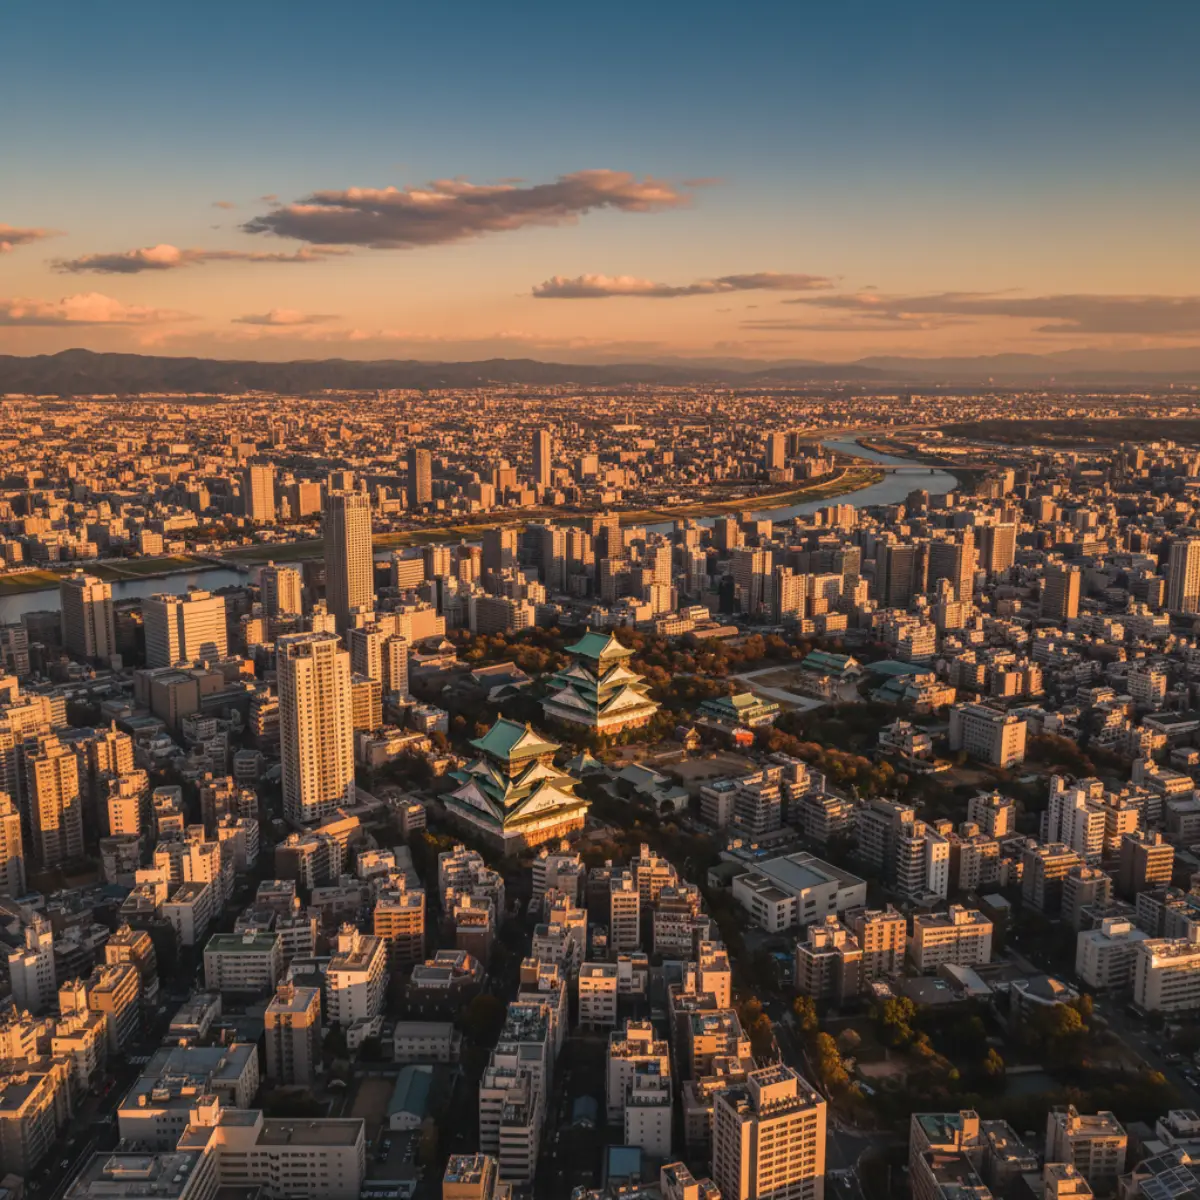
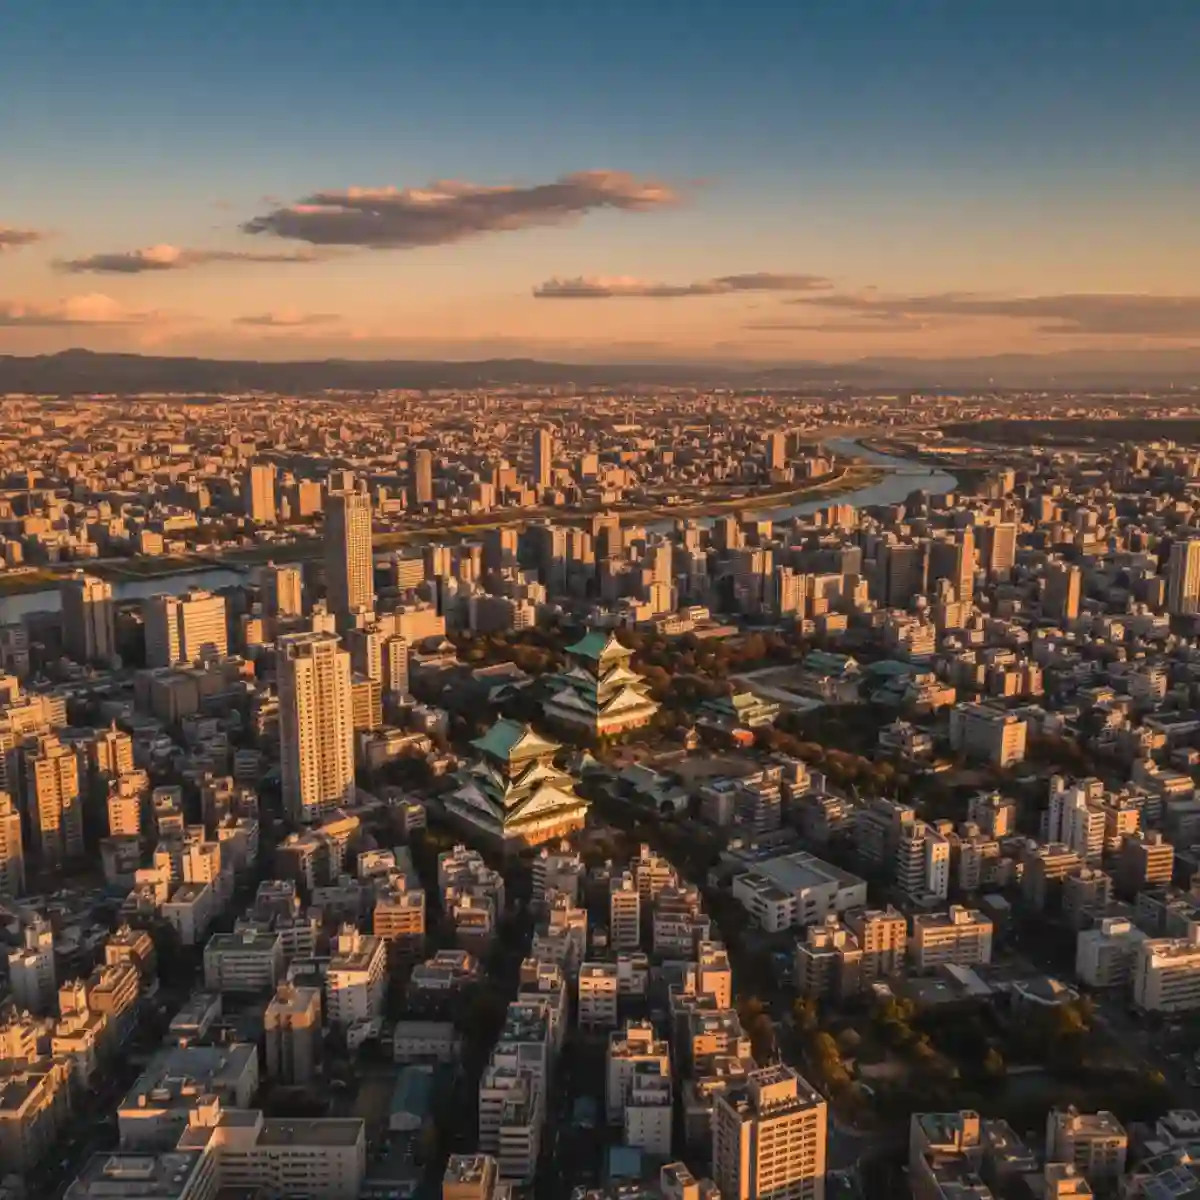
SEO/AEO/パフォーマンス改善: addressLocality補完・画像圧縮・loading属性・twitter統一
- LocalBusiness addressLocality「名古屋市中区」に変更（両LP）
- nagoya-aerial.webp 151KB→49KB、og-image.webp 73KB→25KB
- loading属性なし画像にlazy追加（ロゴ4箇所）
- エレキギターLP twitter:description/titleをmeta descriptionと統一

diff --git a/electric-guitar/index.html b/electric-guitar/index.html
@@ -23,6 +23,8 @@
 <meta property="og:image:height" content="630">
 <meta property="og:image:alt" content="徳丸商会のエレキギター買取。Gibson・Fender・PRS等を高価買取。">
 <meta name="twitter:card" content="summary_large_image">
+<meta name="twitter:title" content="エレキギター買取 名古屋｜高価買取・即日現金の徳丸商会">
+<meta name="twitter:description" content="エレキギター買取なら名古屋の徳丸商会。Gibson・Fender・PRS・Ibanez・YAMAHAを楽器専門スタッフが出張査定。ヴィンテージギターの高価買取にも自信あり。出張費・査定料0円、その場で現金お支払い。年中無休。052-990-3968">
 <meta name="twitter:image" content="https://fuki618.github.io/tokumaru-instrument/images/og-image.webp">
 <meta name="twitter:image:alt" content="徳丸商会のエレキギター買取">
 <link rel="preload" as="image" href="images/hero.webp" type="image/webp">
@@ -38,7 +40,7 @@
 {"@context":"https://schema.org","@type":"FAQPage","mainEntity":[{"@type":"Question","name":"エレキギターの買取相場はいくらですか？","acceptedAnswer":{"@type":"Answer","text":"エレキギターの買取相場はブランド・モデル・状態により大きく異なります。Gibson Les Paul Standardは15万〜20万円、Fender American Professional IIは9.5万〜16.5万円、PRS Custom 24は13万〜25万円が目安です。ヴィンテージ品は当時の定価を大きく上回ることもあります。"}},{"@type":"Question","name":"傷や塗装の剥がれがあるエレキギターでも買取できますか？","acceptedAnswer":{"@type":"Answer","text":"はい、買取可能です。キズ・打痕・塗装剥がれがあっても、ヴィンテージギターでは「レリック」として評価される場合もあります。ネックの状態や電装系の動作が重要な査定ポイントです。"}},{"@type":"Question","name":"改造したエレキギターも買取できますか？","acceptedAnswer":{"@type":"Answer","text":"はい、改造品も買取可能です。ただしフルオリジナルの状態が最も高評価です。ピックアップ交換やペグ交換などがある場合、オリジナルパーツが残っていれば査定額がアップします。"}},{"@type":"Question","name":"ギターケースがなくても買取できますか？","acceptedAnswer":{"@type":"Answer","text":"もちろん買取可能です。ただし純正ハードケースが揃っていると査定額が5〜15%アップする傾向にあります。特にカスタムショップ製の認定証やケースは大きな加点要素です。"}},{"@type":"Question","name":"遺品整理でギターを処分したいのですが？","acceptedAnswer":{"@type":"Answer","text":"はい、遺品整理でのエレキギター買取にも対応しています。ご遺族の方が楽器に詳しくなくても、専門スタッフがメーカー・年式・価値を丁寧にご説明します。"}},{"@type":"Question","name":"出張買取の対応エリアはどこですか？","acceptedAnswer":{"@type":"Answer","text":"名古屋市全域はもちろん、春日井市・一宮市・豊田市・岡崎市など愛知県全域に出張対応しています。岐阜県・三重県の一部も対応可能。出張費はすべて無料です。"}},{"@type":"Question","name":"エレキギターの査定にはどれくらい時間がかかりますか？","acceptedAnswer":{"@type":"Answer","text":"1本あたり約10〜15分程度です。メーカー・型番・年式の確認、ネック状態、フレット残り、電装系の動作チェックを丁寧に行います。"}},{"@type":"Question","name":"アンプやエフェクターも一緒に買取できますか？","acceptedAnswer":{"@type":"Answer","text":"はい、ギターアンプやエフェクター、シールド、ストラップなどもまとめて査定・買取可能です。"}},{"@type":"Question","name":"ヴィンテージギターの価値はどう判断しますか？","acceptedAnswer":{"@type":"Answer","text":"製造年代、シリアルナンバー、木材の状態、パーツのオリジナル度、塗装の状態を総合的に査定します。"}},{"@type":"Question","name":"買取金額に納得できなかった場合はどうなりますか？","acceptedAnswer":{"@type":"Answer","text":"キャンセル料は一切かかりません。査定額にご納得いただけない場合はお気軽にお断りいただけます。"}}]}
 </script>
 <script type="application/ld+json">
-{"@context":"https://schema.org","@type":"LocalBusiness","name":"徳丸商会","alternateName":"徳丸商会 エレキギター買取","description":"名古屋市・愛知県のエレキギター出張買取専門店。Gibson・Fender・PRS・Ibanez・YAMAHAをその場で現金買取。","telephone":"052-990-3968","url":"https://fuki618.github.io/tokumaru-instrument/electric-guitar/","address":{"@type":"PostalAddress","addressLocality":"名古屋市","addressRegion":"愛知県","addressCountry":"JP"},"geo":{"@type":"GeoCoordinates","latitude":35.1815,"longitude":136.9066},"areaServed":[{"@type":"City","name":"名古屋市"},{"@type":"City","name":"春日井市"},{"@type":"City","name":"一宮市"},{"@type":"City","name":"豊田市"},{"@type":"City","name":"岡崎市"},{"@type":"City","name":"豊橋市"},{"@type":"City","name":"小牧市"},{"@type":"City","name":"瀬戸市"},{"@type":"City","name":"半田市"},{"@type":"City","name":"刈谷市"},{"@type":"State","name":"愛知県"}],"priceRange":"無料査定・即日現金払い","openingHoursSpecification":{"@type":"OpeningHoursSpecification","dayOfWeek":["Monday","Tuesday","Wednesday","Thursday","Friday","Saturday","Sunday"],"opens":"09:00","closes":"21:00"},"contactPoint":{"@type":"ContactPoint","telephone":"052-990-3968","contactType":"customer service","availableLanguage":"Japanese"},"aggregateRating":{"@type":"AggregateRating","ratingValue":"4.9","bestRating":"5","ratingCount":"387"},"hasOfferCatalog":{"@type":"OfferCatalog","name":"エレキギター買取サービス","itemListElement":[{"@type":"Offer","itemOffered":{"@type":"Service","name":"Gibson エレキギター買取"}},{"@type":"Offer","itemOffered":{"@type":"Service","name":"Fender エレキギター買取"}},{"@type":"Offer","itemOffered":{"@type":"Service","name":"PRS エレキギター買取"}},{"@type":"Offer","itemOffered":{"@type":"Service","name":"Ibanez エレキギター買取"}},{"@type":"Offer","itemOffered":{"@type":"Service","name":"ESP エレキギター買取"}},{"@type":"Offer","itemOffered":{"@type":"Service","name":"YAMAHA エレキギター買取"}},{"@type":"Offer","itemOffered":{"@type":"Service","name":"ヴィンテージギター買取"}},{"@type":"Offer","itemOffered":{"@type":"Service","name":"改造ギター買取"}}]},"sameAs":["https://lin.ee/j4wK9IM"]}
+{"@context":"https://schema.org","@type":"LocalBusiness","name":"徳丸商会","alternateName":"徳丸商会 エレキギター買取","description":"名古屋市・愛知県のエレキギター出張買取専門店。Gibson・Fender・PRS・Ibanez・YAMAHAをその場で現金買取。","telephone":"052-990-3968","url":"https://fuki618.github.io/tokumaru-instrument/electric-guitar/","address":{"@type":"PostalAddress","addressLocality":"名古屋市中区","addressRegion":"愛知県","addressCountry":"JP"},"geo":{"@type":"GeoCoordinates","latitude":35.1815,"longitude":136.9066},"areaServed":[{"@type":"City","name":"名古屋市"},{"@type":"City","name":"春日井市"},{"@type":"City","name":"一宮市"},{"@type":"City","name":"豊田市"},{"@type":"City","name":"岡崎市"},{"@type":"City","name":"豊橋市"},{"@type":"City","name":"小牧市"},{"@type":"City","name":"瀬戸市"},{"@type":"City","name":"半田市"},{"@type":"City","name":"刈谷市"},{"@type":"State","name":"愛知県"}],"priceRange":"無料査定・即日現金払い","openingHoursSpecification":{"@type":"OpeningHoursSpecification","dayOfWeek":["Monday","Tuesday","Wednesday","Thursday","Friday","Saturday","Sunday"],"opens":"09:00","closes":"21:00"},"contactPoint":{"@type":"ContactPoint","telephone":"052-990-3968","contactType":"customer service","availableLanguage":"Japanese"},"aggregateRating":{"@type":"AggregateRating","ratingValue":"4.9","bestRating":"5","ratingCount":"387"},"hasOfferCatalog":{"@type":"OfferCatalog","name":"エレキギター買取サービス","itemListElement":[{"@type":"Offer","itemOffered":{"@type":"Service","name":"Gibson エレキギター買取"}},{"@type":"Offer","itemOffered":{"@type":"Service","name":"Fender エレキギター買取"}},{"@type":"Offer","itemOffered":{"@type":"Service","name":"PRS エレキギター買取"}},{"@type":"Offer","itemOffered":{"@type":"Service","name":"Ibanez エレキギター買取"}},{"@type":"Offer","itemOffered":{"@type":"Service","name":"ESP エレキギター買取"}},{"@type":"Offer","itemOffered":{"@type":"Service","name":"YAMAHA エレキギター買取"}},{"@type":"Offer","itemOffered":{"@type":"Service","name":"ヴィンテージギター買取"}},{"@type":"Offer","itemOffered":{"@type":"Service","name":"改造ギター買取"}}]},"sameAs":["https://lin.ee/j4wK9IM"]}
 </script>
 <script type="application/ld+json">
 {"@context":"https://schema.org","@type":"Organization","name":"徳丸商会","url":"https://fuki618.github.io/tokumaru-instrument/","logo":"https://fuki618.github.io/tokumaru-instrument/logo.svg","contactPoint":{"@type":"ContactPoint","telephone":"052-990-3968","contactType":"customer service"}}
@@ -279,7 +281,7 @@ ul,ol{list-style:none}
 <div class="top-bar"><div class="top-bar-inner"><span>受付 9:00-21:00（年中無休）</span><a href="tel:052-990-3968"><svg xmlns="http://www.w3.org/2000/svg" width="12" height="12" viewBox="0 0 24 24" fill="none" stroke="currentColor" stroke-width="2"><path d="M22 16.92v3a2 2 0 0 1-2.18 2 19.79 19.79 0 0 1-8.63-3.07 19.5 19.5 0 0 1-6-6 19.79 19.79 0 0 1-3.07-8.67A2 2 0 0 1 4.11 2h3a2 2 0 0 1 2 1.72c.127.96.361 1.903.7 2.81a2 2 0 0 1-.45 2.11L8.09 9.91a16 16 0 0 0 6 6l1.27-1.27a2 2 0 0 1 2.11-.45c.907.339 1.85.573 2.81.7A2 2 0 0 1 22 16.92z"/></svg>052-990-3968</a></div></div>
 <!-- Header -->
 <header class="header"><div class="header-inner">
-<a href="../" class="header-logo"><img src="logo.svg" alt="徳丸商会" width="56" height="56"><div><span class="header-logo-name">徳丸商会</span><span class="header-logo-sub">エレキギター買取</span></div></a>
+<a href="../" class="header-logo"><img src="logo.svg" alt="徳丸商会" width="56" height="56" loading="lazy"><div><span class="header-logo-name">徳丸商会</span><span class="header-logo-sub">エレキギター買取</span></div></a>
 <div class="header-cta">
 <a href="tel:052-990-3968" class="btn-phone"><svg class="btn-icon" viewBox="0 0 24 24" fill="none" stroke="currentColor" stroke-width="2"><path d="M22 16.92v3a2 2 0 0 1-2.18 2 19.79 19.79 0 0 1-8.63-3.07 19.5 19.5 0 0 1-6-6 19.79 19.79 0 0 1-3.07-8.67A2 2 0 0 1 4.11 2h3a2 2 0 0 1 2 1.72c.127.96.361 1.903.7 2.81a2 2 0 0 1-.45 2.11L8.09 9.91a16 16 0 0 0 6 6l1.27-1.27a2 2 0 0 1 2.11-.45c.907.339 1.85.573 2.81.7A2 2 0 0 1 22 16.92z"/></svg>電話</a>
 <a href="https://lin.ee/j4wK9IM" target="_blank" rel="noopener noreferrer" class="btn-line"><svg class="btn-icon" viewBox="0 0 24 24" fill="currentColor"><path d="M19.365 9.863c.349 0 .63.285.63.631 0 .345-.281.63-.63.63H17.61v1.125h1.755c.349 0 .63.283.63.63 0 .344-.281.629-.63.629h-2.386c-.345 0-.627-.285-.627-.629V8.108c0-.345.282-.63.63-.63h2.386c.346 0 .627.285.627.63 0 .349-.281.63-.63.63H17.61v1.125h1.755zm-3.855 3.016c0 .27-.174.51-.432.596a.626.626 0 0 1-.199.031c-.211 0-.391-.09-.51-.25l-2.443-3.317v2.94c0 .344-.279.629-.631.629-.346 0-.626-.285-.626-.629V8.108c0-.27.173-.51.43-.595.06-.023.136-.033.194-.033.195 0 .375.104.495.254l2.462 3.33V8.108c0-.345.282-.63.63-.63.345 0 .63.285.63.63v4.771zm-5.741 0c0 .344-.282.629-.631.629-.345 0-.627-.285-.627-.629V8.108c0-.345.282-.63.63-.63.346 0 .628.285.628.63v4.771zm-2.466.629H4.917c-.345 0-.63-.285-.63-.629V8.108c0-.345.285-.63.63-.63.348 0 .63.285.63.63v4.141h1.756c.348 0 .629.283.629.63 0 .344-.282.629-.629.629M24 10.314C24 4.943 18.615.572 12 .572S0 4.943 0 10.314c0 4.811 4.27 8.842 10.035 9.608.391.082.923.258 1.058.59.12.301.079.766.038 1.08l-.164 1.02c-.045.301-.24 1.186 1.049.645 1.291-.539 6.916-4.078 9.436-6.975C23.176 14.393 24 12.458 24 10.314"/></svg>LINE</a>
@@ -579,7 +581,7 @@ ul,ol{list-style:none}
 <!-- Footer -->
 <footer class="footer">
 <div class="container">
-<div class="footer-logo"><img src="logo.svg" alt="徳丸商会" width="48" height="48"><span>徳丸商会</span></div>
+<div class="footer-logo"><img src="logo.svg" alt="徳丸商会" width="48" height="48" loading="lazy"><span>徳丸商会</span></div>
 <div style="margin-bottom:1.5rem;line-height:2"><p>名古屋市のエレキギター買取</p><p>受付 9:00-21:00（年中無休）</p><p><a href="tel:052-990-3968" style="color:rgba(255,255,255,0.7)">052-990-3968</a></p><p style="margin-top:0.5rem;font-size:0.65rem;opacity:0.5">古物商許可 第541042309800号</p></div>
 <nav style="display:flex;justify-content:center;gap:1.5rem;margin-bottom:1rem;font-size:0.75rem"><a href="../" style="color:rgba(255,255,255,0.5)">楽器買取トップ</a><a href="/privacy-policy/" style="color:rgba(255,255,255,0.5)">プライバシーポリシー</a></nav>
 <div class="footer-copy">&copy; 2026 徳丸商会 All Rights Reserved.</div>

diff --git a/index.html b/index.html
@@ -159,7 +159,7 @@
   "image": "https://fuki618.github.io/tokumaru-instrument/images/og-image.webp",
   "address": {
     "@type": "PostalAddress",
-    "addressLocality": "名古屋市",
+    "addressLocality": "名古屋市中区",
     "addressRegion": "愛知県",
     "addressCountry": "JP"
   },
@@ -1029,7 +1029,7 @@ body { padding-bottom: 68px; }
 <header class="header">
   <div class="header-inner">
     <a href="/" class="header-logo">
-      <img src="logo.svg" alt="徳丸商会" width="72" height="72">
+      <img src="logo.svg" alt="徳丸商会" width="72" height="72" loading="lazy">
       <div class="header-logo-text">
         <span class="header-logo-name">徳丸商会</span>
         <span class="header-logo-sub">名古屋の楽器買取</span>
@@ -1706,7 +1706,7 @@ body { padding-bottom: 68px; }
 <footer class="footer">
   <div class="container">
     <div class="footer-logo">
-      <img src="logo.svg" alt="徳丸商会" width="40" height="40">
+      <img src="logo.svg" alt="徳丸商会" width="40" height="40" loading="lazy">
       <span>徳丸商会</span>
     </div>
     <div class="footer-info">
